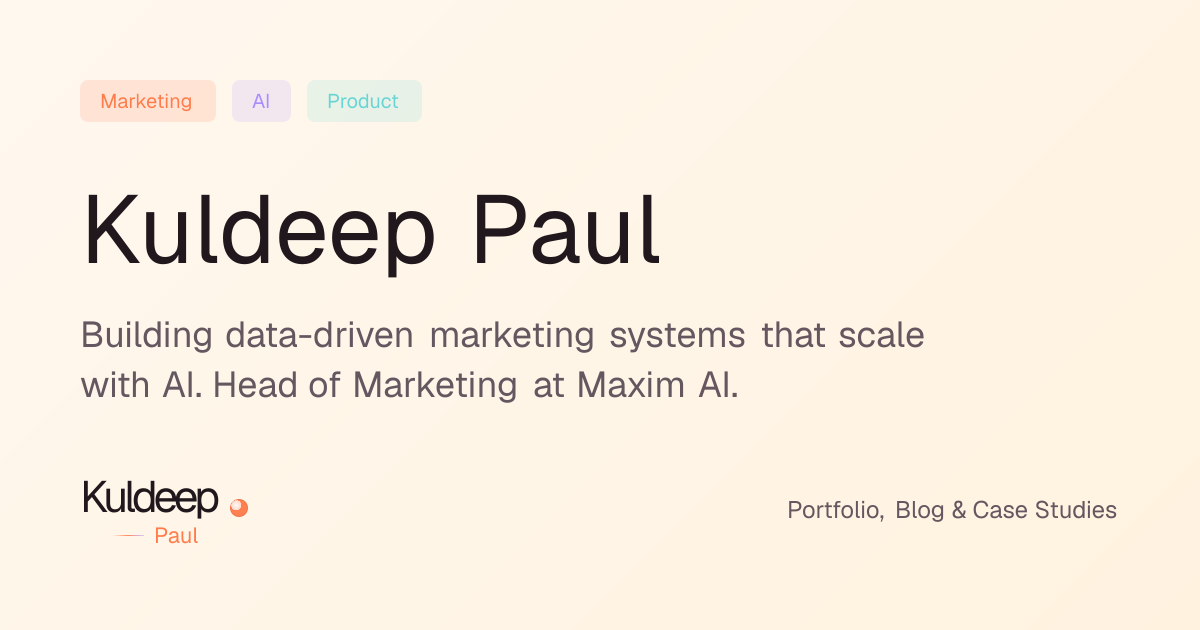
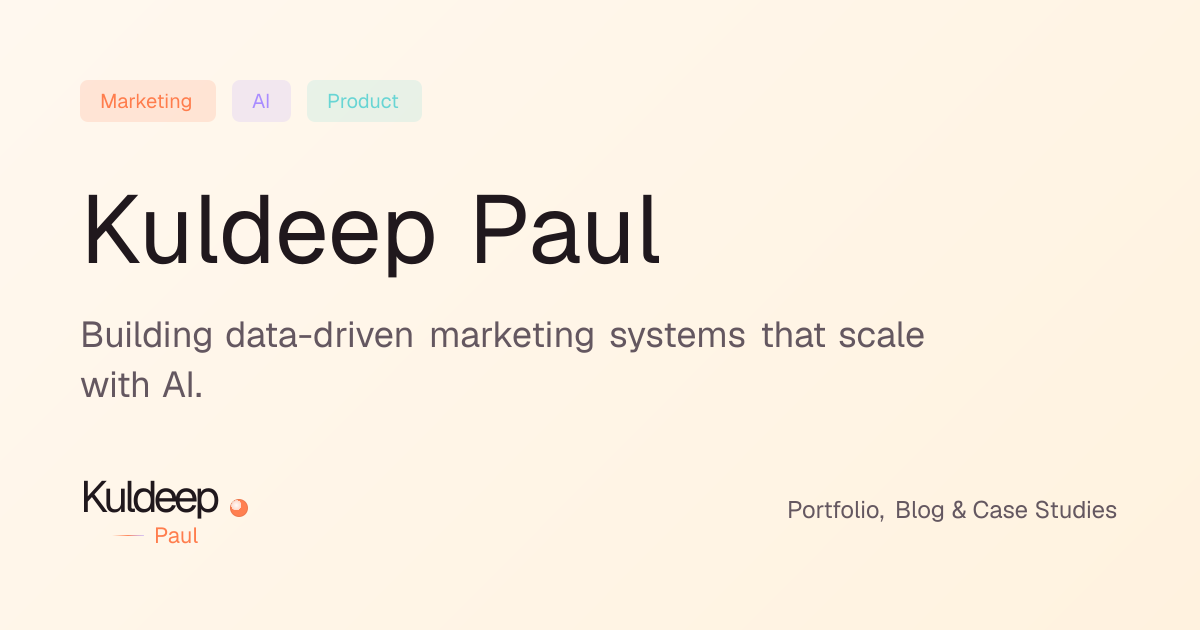
Remove job title from OG image
- Removed "Head of Marketing at Maxim AI" text from home OG image
- Simplified description to focus on core value proposition
- Regenerated home.png with updated text

🤖 Generated with [Claude Code](https://claude.com/claude-code)

Changed region(s): [[0.1542, 0.573, 0.6167, 0.6333]]

diff --git a/scripts/generate-og-images.tsx b/scripts/generate-og-images.tsx
@@ -170,8 +170,7 @@ async function generateHomeOG() {
               maxWidth: "900px",
             }}
           >
-            Building data-driven marketing systems that scale with AI. Head of
-            Marketing at Maxim AI.
+            Building data-driven marketing systems that scale with AI.
           </div>
         </div>
 
